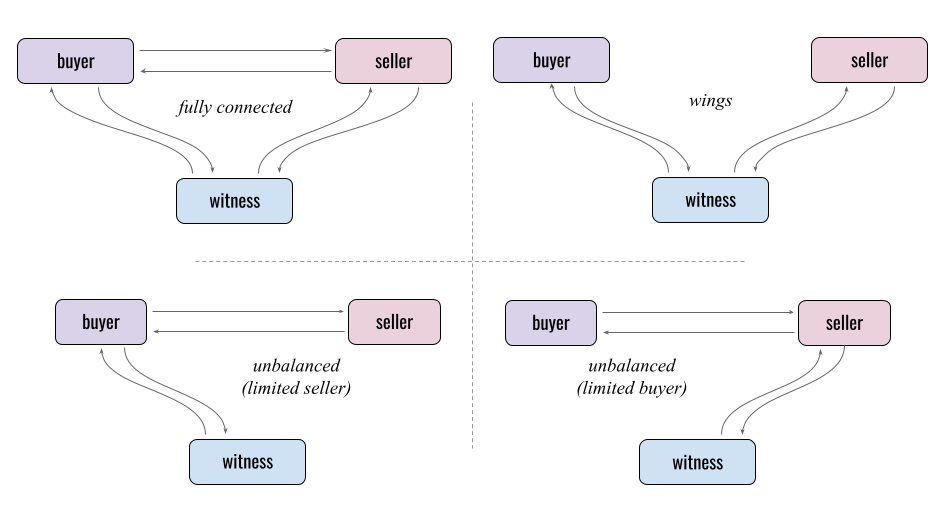
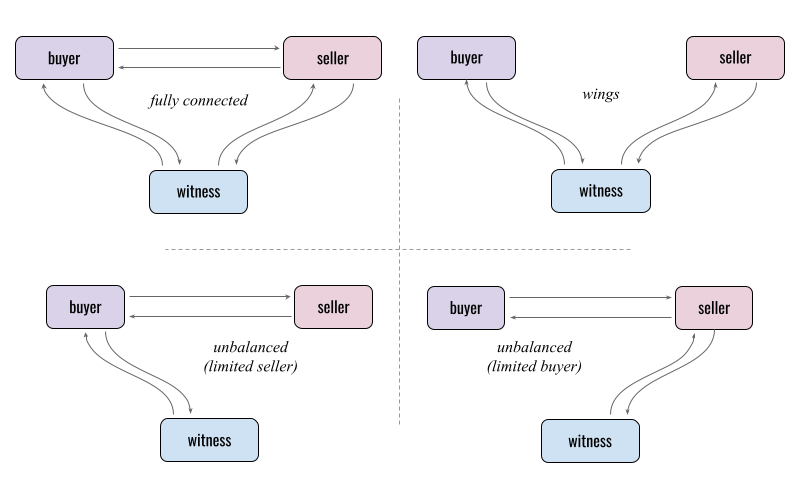
improve graphics and wordsmith

diff --git a/gossyp/README.md b/gossyp/README.md
@@ -8,13 +8,15 @@
 
 ## Summary
 
-Defines how to maintain a shared view of changing state, despite the complex connectivity challenges of decentralized, n-wise interactions. Since shared state can drive a workflow, we recommend [implementing n-wise DIDComm protocols atop gossyp](#building-on-gossyp); its abstraction over point-to-point communication[<a id="ref1" href="note1">1</a>] can make such protocols easier to design and impliment, and far more robust. 
+Defines how to maintain a shared view of changing state, despite the complex connectivity challenges of decentralized, n-wise interactions. Since shared state can drive a workflow, we recommend [implementing n-wise DIDComm protocols atop gossyp](#building-on-gossyp); its abstraction over point-to-point communication[<a id="ref1" href="note1">1</a>] can make such protocols easier to design and implement, and far more robust. 
 
 >Note: Careful students of this protocol will recognize overlaps between this protocol and several other technologies in SSI and distributed systems. For an analysis of how gossyp's solution to this problem compares to other approaches, see [Appendix 1: Alternatives](#appendix-1-alternatives).
 
 ## Roles
 
-Many [participants](https://github.com/dhh1128/didcomm-terms/wiki/participant) may run this protocol, but they all share a single role, `peer`. In some cases, all `peers` belong to a single [party](https://github.com/dhh1128/didcomm-terms/wiki/party) (e.g., Alice is syncing state among all her devices); in other cases, the participants may span sovereign domain boundaries (e.g., they are syncing the state of n-wise peer DID docs).
+Many [participants](https://github.com/dhh1128/didcomm-terms/wiki/participant) may run this protocol, but they all share a single role, `peer`.
+
+In some cases, all `peers` belong to a single [party](https://github.com/dhh1128/didcomm-terms/wiki/party) (e.g., Alice is using gossyp to sync state among all her devices); in other cases, the participants may span sovereign domain boundaries (e.g., multiple individuals are using gossyp to sync the state of n-wise peer DID docs).
 
 ## Connectivity
 
@@ -28,7 +30,7 @@ This is an [infinite protocol](https://github.com/dhh1128/didcomm-terms/wiki/inf
 
 It only has one state, `syncing`.
 
-## Abstract flow
+## Basic Principles
 
 Humans gossip like this:
 
@@ -396,29 +398,28 @@ in the [Localization RFC](https://github.com/hyperledger/aries-rfcs/tree/master/
 
 <hr>
 
-## Appendix A: Alternatives
+## Appendix 1: Alternatives
 
 The broadest conception of gossyp's problem domain &mdash; providing a dynamic and decentralized source of truth &mdash; has mature solutions when systems are simple, uniform, governed by consistent policy, and/or (semi-)centralized. This includes sophisticated replication mechanisms, distributed databases, distributed hash tables and ledgers, and blockchains. All of these allow multiple parties to interact via a shared source of truth that tolerates a lot of real-world complexity.
 
-However, gossyp accepts requirements that these technologies do not address well:
+However, gossyp accepts requirements that these technologies do not address well. This includes situations where:
 
 * There is little guarantee of commonality among participants. They may use different operating systems, software packages, and network protocols to interact &mdash; and there is no single "system" or data repository that binds them all together.
 * Consensus may be impossible or undesirable &mdash; meaning that conflicting views of "truth" can be permanent rather than temporary.
 * Connectivity is spotty and unpredictable.
 * The number of [parties](https://github.com/dhh1128/didcomm-terms/wiki/party) is not stable across time.
 * Each party may be represented by multiple [participants](https://github.com/dhh1128/didcomm-terms/wiki/participant) (devices or software packages).
-* Participants use dramatically different levels of automation, and interact on time scales that vary from microseconds with IoT devices to days or weeks for humans.
+* Participants use dramatically different levels of automation, and interact on time scales that vary from microseconds with IoT devices to days or weeks with humans.
 * Each participant may contribute to state, or may disengage, at any time.
 * Legal constraints may vary for each participant.
 
 In the aggregate, these requirements have profound consequences for architecture. Consider how they might color efforts to build a 3-party payment protocol involving a buyer, a seller, and witness (an auditor capable of enforcing rules; perhaps a point-of-sale terminal. Should we assume the buyer and the seller can talk to one another directly, or that all messages pass through the witness, or even that the buyer and the seller have unequal access to the network? Should we assume that all three parties are available at the same time, or that the protocol can pause while a next step waits on renewed connectivity? How much is the witness trusted? If the buyer and seller each have a smartphone, we may want to skip the witness and assume direct connectivity &mdash; but what if the buyer and the seller are each using smartcards that depend on something else for power?
 
-<figure>
-  <img src="nwise-connectivity.png" alt="possible connectivity assumptions" style="width:100%">
-  <figcaption>A few of the connectivity assumptions that are possible with just 3 parties in an interaction. (No one-way or limited-in-time possibilities are shown.) How could these change protocol design?</figcaption>
-</figure>
+The diagram below shows a few of the connectivity assumptions that are possible with just 3 parties in an interaction. No one-way or limited-in-time possibilities are shown. Designing a single protocol that handles all the possibilities is nearly impossible, because the message flows and trust requirements are different.
 
-Gossyp is for cases when easy, centralized, online assumptions don't hold. This is the chaotic, ever-evolving world of mesh computing on the digital landscape as a whole &mdash; encompassing the TCP/IP internet, but also BLE, NFC, sneakernet, air-gapped LANs, [LoRa](https://en.wikipedia.org/wiki/LoRa), serial ports, [LEO comms like Iridium](https://www.its.bldrdoc.gov/media/30335/red_s.pdf), and anything else that speaks in bits. It is hard-core decentralized. Nobody will ever unify or normalize it all.
+![a few different connectivity possibilities](nwise-connectivity.png)
+
+Gossyp is for cases when easy, centralized, online, permanent two-way-connectivity assumptions don't hold. This is the chaotic, ever-evolving world of mesh computing on the digital landscape as a whole &mdash; encompassing the TCP/IP internet, but also BLE, NFC, sneakernet, air-gapped LANs, [LoRa](https://en.wikipedia.org/wiki/LoRa), serial ports, [LEO comms like Iridium](https://www.its.bldrdoc.gov/media/30335/red_s.pdf), and anything else that speaks in bits. It is hard-core decentralized. Nobody will ever unify or normalize it all.
 
 Faced with that kind of landscape, the identity community has proposed several solutions. It's worth comparing them to gossyp.
 
@@ -426,7 +427,7 @@ Faced with that kind of landscape, the identity community has proposed several s
    
     Thirty years into the modern web, this is traditional wisdom, and we know it works: build a web service and have all parties call it. The complexities of the chaotic digital landscape all resolve into orderly behavior (or give up and go away) when funneled through an API. WeChat does this for chat and payments; Uber does this for ride sharing; eBay does it for auctions; SAP does it for complex supply chains. So why can't a government or enterprise do it to issue verifiable credentials, for example?
 
-    The answer is that this CAN work. It may be a reasonable expedient in some cases, because today's human institutions and behaviors match the technical architecture ([Conway's Law](https://en.wikipedia.org/wiki/Conway%27s_law)). However, it is really just a modest tweak on traditional centralization.
+    The answer is that this CAN work, and it may be a reasonable expedient in some cases, because today's human institutions and behaviors match the technical architecture ([Conway's Law](https://en.wikipedia.org/wiki/Conway%27s_law)). However, it is really just a modest tweak on traditional centralization.
    
     Although individual participants might manage some state with autonomy (e.g., on a public, permissionless blockchain), there is still an oracle (the web service) unifying the reality of multiple participants; Alice and Bob can't short-circuit the intermediary. They must conform to the governance, the networking assumptions, the timing constraints, the "system" of the institution. And each institution is a different silo with a different API; consider how much functionality you can re-use if you have an Uber client and you want to talk to the WeChat ecosystem. And this solution only works for institutions; it's impractical for ordinary humans to host 24x7x365 web services. It thus perpetuates power imbalances and privacy problems that are insidious in today's ["you're not the customer, you're the product"](https://quoteinvestigator.com/2017/07/16/product/) economy.
  
